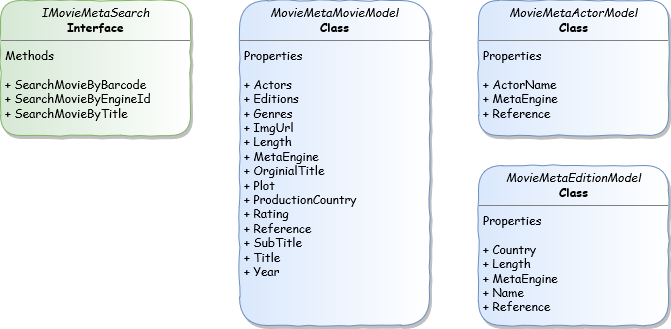
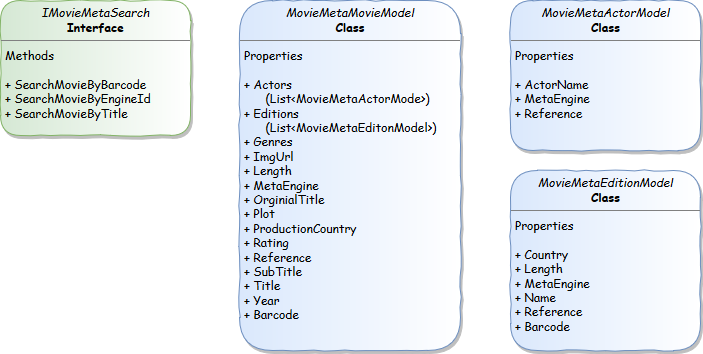
Implement Barcode Field (close #10)

diff --git a/OfdbParser/OfdbSearch.cs b/OfdbParser/OfdbSearch.cs
@@ -63,7 +63,7 @@ namespace OfdbParser
         public List<MovieMetaMovieModel> SearchMovieByEngineId(string EngineId)
         {
             Log.Debug().Write($"EngineId: {EngineId}");
-            string movieReference = "";
+            string movieReference;
             string editionReference = "";
 
             if (EngineId.Contains(";"))
@@ -199,7 +199,8 @@ namespace OfdbParser
                 // Get all desired search objects
                 var searchObjects = new XPathSelectionName[]
                 {
-                 XPathSelectionName.EditionRuntime
+                 XPathSelectionName.EditionRuntime,
+                 XPathSelectionName.EditionBarcode
                 };
 
                 // Get the url and resolver data for the desired object
@@ -234,6 +235,9 @@ namespace OfdbParser
                                 case XPathSelectionName.EditionRuntime:
                                     desiredEdition.Length = xObject.Resolver.Resolve<List<string>>(value).FirstOrDefault();
                                     break;
+                                case XPathSelectionName.EditionBarcode:
+                                    desiredEdition.Barcode = xObject.Resolver.Resolve<List<string>>(value).FirstOrDefault();
+                                    break;
                             }
                         }
                         catch (NullReferenceException)
@@ -246,6 +250,7 @@ namespace OfdbParser
 
                 movieResultList.FirstOrDefault().Reference = String.Format("{0};{1}", movieReference, editionReference);
                 movieResultList.FirstOrDefault().Length = desiredEdition.Length;
+                movieResultList.FirstOrDefault().Barcode = desiredEdition.Barcode;
             }
             else Log.Debug().Write($"No edition found for {editionReference}");
 
@@ -324,7 +329,6 @@ namespace OfdbParser
             }
 
             return SearchMovieByEngineId(result.Reference);
-            //return new List<MovieMetaMovieModel>() { result };
         }
 
 

diff --git a/MovieSearchEngineUnitTests/OfdbParserTest.cs b/MovieSearchEngineUnitTests/OfdbParserTest.cs
@@ -252,6 +252,20 @@ namespace MovieSearchEngineUnitTests
             var actual = SUT.SearchMovieByEngineId(input);
             Assert.AreEqual("Bestimmung - Divergent, Die", actual.FirstOrDefault().Title);
             Assert.AreEqual("139", actual.FirstOrDefault().Length);
+            Assert.AreEqual("4010324039804", actual.FirstOrDefault().Barcode);
+        }
+
+
+        [TestMethod()]
+        [TestCategory(CAT_ONLINE)]
+        public void SearchMovieByEngineIdWithMissingBarcodeTest()
+        {
+            var input = "258134;410780";
+            var SUT = new OfdbSearch();
+            var actual = SUT.SearchMovieByEngineId(input);
+            Assert.AreEqual("Bestimmung - Divergent, Die", actual.FirstOrDefault().Title);
+            Assert.AreEqual("126", actual.FirstOrDefault().Length);
+            Assert.IsNull(actual.FirstOrDefault().Barcode);
         }
 
         [TestMethod()]
@@ -290,6 +304,7 @@ namespace MovieSearchEngineUnitTests
             Assert.AreEqual("2014", actual.FirstOrDefault().Year);
             Assert.AreEqual("https://ssl.ofdb.de/images/film/268/268777.jpg", actual.FirstOrDefault().ImgUrl);
             Assert.AreEqual("268777;396788", actual.FirstOrDefault().Reference);
+            Assert.AreEqual(input, actual.FirstOrDefault().Barcode);
 
             var rating = Double.Parse(actual.FirstOrDefault().Rating);
             var checkRating = rating > 6 && rating < 9;

diff --git a/OfdbParser/OfdbXPathSelections.cs b/OfdbParser/OfdbXPathSelections.cs
@@ -209,6 +209,16 @@ namespace OfdbParser
                     XPath = "/html//font[text()=\"Laufzeit:\"]/parent::node()/parent::node()//b/text()",
                     Resolver = new OfdbEditionRuntimeResolver()
                 });
+            // Retrieve EditionRuntime
+            xPathSelections.Add(
+                new XPathSelection
+                {
+                    Name = XPathSelectionName.EditionBarcode,
+                    //Url = "https://ssl.ofdb.de/view.php?page=fassung&fid=258134&vid=386665,",
+                    Url = "https://ssl.ofdb.de/view.php?page=fassung{placeholder},",
+                    XPath = "/html//a[text()=\"EAN/UPC\"]/parent::node()/parent::node()/parent::node()//b/text()",
+                    Resolver = new OfdbPassThroughResolver()
+                });
             #endregion EditionDetails
 
             return xPathSelections;

diff --git a/MovieSearchEngine/MovieMetaMovieModel.cs b/MovieSearchEngine/MovieMetaMovieModel.cs
@@ -22,5 +22,6 @@ namespace MovieMetaEngine
         public string Rating { get; set; }   
         public List<MovieMetaEditionModel> Editions {get; set; }
         public List<string> Genres { get; set; }
+        public string Barcode { get; set; }
     }
 }

diff --git a/OfdbParser/XPathSelection.cs b/OfdbParser/XPathSelection.cs
@@ -25,7 +25,8 @@ namespace OfdbParser
         DetailsCoverImage,
         DetailsEditions,
         DetatilsRating,
-        EditionRuntime
+        EditionRuntime,
+        EditionBarcode
 
     }
     public class XPathSelection

diff --git a/MovieSearchEngine/MovieMetaEditionModel.cs b/MovieSearchEngine/MovieMetaEditionModel.cs
@@ -12,5 +12,6 @@ namespace MovieMetaEngine
         public string Name { get; set; }
         public string Country { get; set; }
         public string Length { get; set; }
+        public string Barcode { get; set; }
     }
 }
